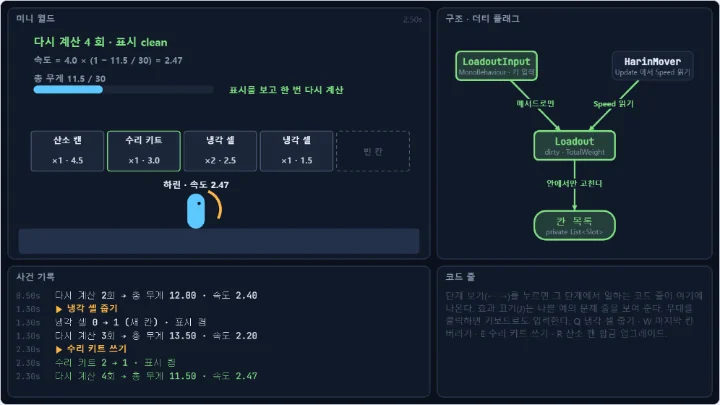
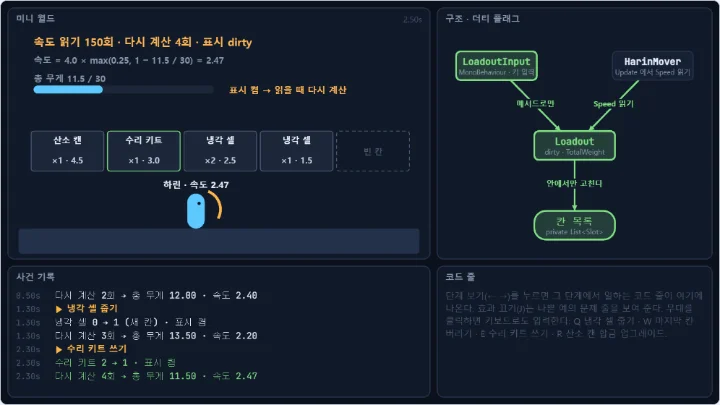
dispatch(dirty-flag-loadout-fix): 표본 수정: dirty-flag-loadout
Dispatch-Job: dirty-flag-loadout-fix
Dispatch-Profile: sub
Dispatch-Model: claude-opus-5-5

Changed region(s): [[0.0306, 0.0889, 0.3667, 0.1778], [0.3056, 0.2074, 0.4889, 0.237]]

diff --git a/src/specimens/dirty-flag-loadout/meta.ts b/src/specimens/dirty-flag-loadout/meta.ts
@@ -38,7 +38,7 @@ export const meta: PatternMeta = {
       id: 'kit-skips-flag',
       label: '셀을 줍고, 수리 키트를 두 번 쓰고, 마지막 칸을 버린다',
       duration: 6,
-      note: '자동 데모. 줍기 둘(1.30 에 새 칸)마다 다시 계산한다. 2.30 수리 키트 쓰기에서 효과 끄기는 표시를 켜지 않아 캐시 13.50 · 실제 11.50 로 어긋나고(✖ 옛 무게), 3.40 에 한 번 더 써도 캐시 그대로다. 4.60 버리기가 표시를 켜서 7.00 으로 돌아온다',
+      note: '자동 데모. 냉각 셀은 칸당 2개까지 묶이고 칸마다 모듈 0.5 가 붙어, 0.50 줍기는 기존 칸에 더해 +1.00, 1.30 줍기는 새 칸이라 +1.50 이다. 줍기마다 한 번 다시 계산한다. 2.30 수리 키트 쓰기에서 효과 끄기는 표시를 켜지 않아 캐시 13.50 · 실제 11.50 로 어긋나고(✖ 옛 무게), 3.40 에 한 번 더 써도 캐시 그대로다. 4.60 버리기가 표시를 켜서 7.00 으로 돌아온다',
       inputs: [
         [0.5, 'pickup'],
         [1.3, 'pickup'],
@@ -103,13 +103,13 @@ export const meta: PatternMeta = {
   },
   steps: [
     { n: 1, label: '장비를 바꾸는 길은 Loadout 의 메서드뿐이다', body: '칸 목록은 `Loadout` 안의 `private` 목록이다. 줍기, 버리기, 수리 키트 쓰기, 합금 모두 `Add`, `RemoveLast`, `UseOne`, `Upgrade` 를 부른다. 바깥은 `SlotInfo` 복사본만 읽을 수 있어 개수를 직접 고치지 못한다.', target: 'input,input-loadout,loadout' },
-    { n: 2, label: '바꾸는 메서드는 계산하지 않고 표시만 켠다', body: '메서드는 칸을 고친 뒤 `dirty = true` 한 줄만 한다. 한 프레임에 열 번 바꿔도 무게 계산은 아직 없다. 사건 기록의 "· 표시 켬" 이 그 순간이다.', target: 'loadout,loadout-slots,slots' },
-    { n: 3, label: '읽을 때 표시가 켜져 있으면 한 번 다시 계산하고 끈다', body: '`HarinMover` 가 `Speed` 를 읽으면 `TotalWeight` 가 표시를 보고 칸마다 개수 × 무게 + 모듈 무게를 더한 뒤 표시를 끈다. 왼쪽 위 "다시 계산 n 회" 가 하나 는다. 무게 글은 이때 오는 `Recalculated` 에서만 고친다.', target: 'mover,mover-loadout,loadout,slots' },
-    { n: 4, label: '바뀌지 않았으면 캐시를 그대로 쓴다', body: '하린은 매 프레임 속도를 읽지만 표시가 꺼져 있으면 캐시를 돌려줄 뿐이다. 자동 데모 6초 동안 360번 읽어도 다시 계산은 처음 한 번과 입력 수만큼이다 (매 프레임 계산하던 코드라면 360번). Unity 의 `Transform` 이 위치를 바꿀 때 내부 행렬을 바로 계산하지 않고 필요할 때 맞추는 것도 같은 생각으로 볼 수 있다.', target: 'mover-loadout,loadout' },
+    { n: 2, label: '바꾸는 메서드는 계산하지 않고 표시만 켠다', body: '메서드는 칸을 고친 뒤 `MarkDirty()` 로 `dirty = true` 한 줄만 한다. 한 프레임에 열 번 바꿔도 무게 계산은 아직 없다. 사건 기록의 "· 표시 켬" 이 그 순간이다. 무대는 바로 다음 프레임에 읽어 표시를 끄므로, 왼쪽 위 "표시 dirty" 와 오른쪽 "표시 켬 → 읽을 때 다시 계산" 을 0.4초 남겨 보인다.', target: 'loadout,loadout-slots,slots' },
+    { n: 3, label: '읽을 때 표시가 켜져 있으면 한 번 다시 계산하고 끈다', body: '`HarinMover` 가 `Speed` 를 읽으면 `TotalWeight` 가 표시를 보고 칸마다 개수 × 무게 + 모듈 무게를 더한 뒤 표시를 끈다. 왼쪽 위 "다시 계산 n회" 가 하나 는다. 무게 글은 이때 오는 `Recalculated` 에서만 고친다.', target: 'mover,mover-loadout,loadout,slots' },
+    { n: 4, label: '바뀌지 않았으면 캐시를 그대로 쓴다', body: '하린은 매 프레임 속도를 읽지만 표시가 꺼져 있으면 캐시를 돌려줄 뿐이다. 자동 데모 6초 동안 왼쪽 위 "속도 읽기" 는 360회까지 늘지만 "다시 계산" 은 처음 한 번과 입력 수만큼이다 (매 프레임 계산하던 코드라면 360번). 책의 예는 씬 그래프다: 부모가 움직이면 자식들의 월드 변환을 바로 다시 계산하지 않고 표시만 해 두었다가, 그릴 때 한 번 계산한다. Unity 물리도 같은 생각이다: Transform 을 바꿔도 물리에 바로 맞추지 않고 모아 두었다가, 다음 물리 단계 전이나 `Physics.SyncTransforms` 를 부를 때 한꺼번에 맞춘다.', target: 'mover-loadout,loadout' },
   ],
-  offNote: '캐시와 `isDirty` 는 있지만 칸 목록과 묶음 수가 `public` 이고, 수리 키트를 쓰는 바깥 코드가 `slot.count--` 만 하고 `isDirty = true` 를 빠뜨린 흔한 코드다. 수리 키트를 쓰면 칸의 개수는 줄었는데 캐시된 총 무게와 그 무게로 구한 속도가 그대로다(자동 데모 2.30 에 캐시 13.5 · 실제 11.5). 어느 순서로 눌러도 원인은 이 한 길이다. 수리 키트를 쓴 뒤 줍기, 버리기, 합금 업그레이드처럼 메서드를 거치는 길이 실제로 무언가를 바꿔 표시를 켜면(칸이 가득 찬 줍기나 이미 끝난 합금은 켜지 않는다) 그때 수리 키트 몫까지 맞게 다시 계산된다. 그래서 "가끔 맞고 가끔 틀린" 버그로 보여 재현이 오락가락한다. Unity 에서는 키트를 써도 무게 글과 하린의 걸음이 그대로이다가, 다음 줍기에 갑자기 가벼워진다.',
+  offNote: '캐시와 `isDirty` 는 있지만 칸 목록과 묶음 수가 `public` 이고, 수리 키트를 쓰는 바깥 코드가 `slot.count--` 만 하고 `isDirty = true` 를 빠뜨린 흔한 코드다. 수리 키트를 쓰면 칸의 개수는 줄었는데 캐시된 총 무게와 그 무게로 구한 속도가 그대로다(자동 데모 2.30 에 캐시 13.5 · 실제 11.5). 어느 순서로 눌러도 원인은 이 한 길이다. 수리 키트를 쓴 뒤 줍기, 버리기, 합금 업그레이드처럼 메서드를 거치는 길이 실제로 무언가를 바꿔 표시를 켜면(칸이 가득 찬 줍기나 이미 끝난 합금은 켜지 않는다) 그때 수리 키트 몫까지 맞게 다시 계산된다. 그래서 "가끔 맞고 가끔 틀린" 버그로 보여 재현이 오락가락한다. Unity 에서는 키트를 써도 무게 글과 하린의 걸음이 바뀌지 않고, 다음 줍기(또는 버리기, 합금)가 표시를 켤 때에야 키트 몫이 빠진다.',
   mistakes: [
-    { title: '수리 키트를 썼는데 짐이 그대로 무겁다', body: '바꾸는 길 하나에서 표시를 빠뜨렸다. 개수를 줄이는 코드가 `isDirty = true` 를 켜지 않으면 캐시가 옛 무게로 남는다. 다음에 다른 길이 표시를 켜면 그때 맞아져 원인을 찾기 어렵다. 바꾸는 코드를 `Loadout` 의 메서드 하나로 모으고, 그 메서드 안에서 표시를 켠다.' },
+    { title: '수리 키트를 썼는데 짐이 그대로 무겁다', body: '바꾸는 길 하나에서 표시를 빠뜨렸다. 개수를 줄이는 코드가 `isDirty = true` 를 켜지 않으면 캐시가 옛 무게로 남는다. 다음에 다른 길이 표시를 켜면 그때 맞아져 원인을 찾기 어렵다. 바꾸는 코드를 `Loadout` 의 메서드로 모으고, 각 메서드 안에서 표시를 켠다. 이 표본의 `Loadout` 도 메서드마다 `MarkDirty()` 를 부른다. 부르는 곳을 없앤 것이 아니라 표시를 켜는 곳을 한 클래스 안으로 좁힌 것이다.' },
     { title: '고쳐도 다른 스크립트에서 또 같은 버그가 생긴다', body: '칸 목록이나 개수 필드가 `public` 이라 누구든 직접 고칠 수 있다. 이 표본의 `Loadout` 은 목록을 `private` 으로 두고 바깥에는 `SlotInfo` 값 복사본만 내준다. 교안 01 의 캡슐화(`{ get; private set; }`)처럼 읽기는 열고 쓰기는 닫으면 표시를 건너뛰는 길이 아예 없다.' },
     { title: '표시는 켜지는데 화면 숫자가 안 바뀐다', body: '읽는 쪽이 `TotalWeight` 대신 캐시 필드(`cachedWeight`)를 바로 읽었다. 표시를 확인하고 다시 계산하는 곳은 `TotalWeight` 하나여야 한다. 캐시 필드는 `private` 으로 둔다. 이 표본의 무게 글은 `Recalculated` 이벤트에서 고치므로 아무도 무게를 읽지 않으면 글도 그대로다. `HarinMover` 를 빼면 확인할 수 있다.' },
     { title: '캐시를 만들었는데 다시 계산 횟수가 매 프레임 는다', body: '`Update` 에서 `isDirty = true` 를 켜거나, 무게를 바꾸지 않는 메서드(받지 않은 합금 등)에서도 표시를 켠다. 표시는 실제로 바뀌었을 때만 켠다. 이 표본의 `Upgrade` 는 바꿀 칸이 없으면 표시를 켜지 않고 `Ignored` 만 알린다.' },
@@ -120,14 +120,14 @@ export const meta: PatternMeta = {
       '`Core/` 와 `Unity/` 폴더를 `Assets/Patterns/dirty-flag-loadout/` 에 둔다. `Naive/` 는 비교용 나쁜 예라 넣지 않는다.',
       '하린을 만든다. Universal 3D 템플릿은 `GameObject > 3D Object > Capsule`, 2D 템플릿은 `GameObject > 2D Object > Sprites > Capsule` (2D Sprite 패키지, 2D 템플릿에 들어 있다). 이름을 Harin, Position 을 (0, 0, 0) 으로 둔다. 기본 카메라(2D 템플릿은 Orthographic Size 5, Universal 3D 는 (0, 1, −10) 원근)에 x −6 ~ 6 이 모두 보인다.',
       'Harin 에 `LoadoutInput` 을 붙인다. 붙이는 순간 `Reset` 이 시연 키(Q 냉각 셀 줍기, W 마지막 칸 버리기, E 수리 키트 쓰기, R 산소 캔 합금)를 넣는다.',
-      '같은 Harin 에 `HarinMover` 를 붙인다. `Reset` 이 같은 오브젝트의 `LoadoutInput` 을 `Loadout` 칸에 넣는다 (`LoadoutInput` 을 먼저 붙여야 한다). Left X −6, Right X 6 사이를 걷는다.',
+      '같은 Harin 에 `HarinMover` 를 붙인다. `Reset` 이 같은 오브젝트의 `LoadoutInput` 을 `Loadout Input` 칸에 넣는다. `[RequireComponent]` 라 `LoadoutInput` 이 없으면 함께 붙지만, 위 순서대로 먼저 붙여 두는 편이 확실하다 (칸이 비어 있으면 Harin 의 `LoadoutInput` 을 끌어 넣는다). Left X −6, Right X 6 사이를 걷는다.',
       'Play 하면 화면 왼쪽 위에 "다시 계산 1회 · 총 무게 11.0 / 30 · 속도 2.53" 과 칸 목록이 보인다. Q 로 셀을 줍고 E 로 수리 키트를 써 본다.',
     ],
     verify: 'E 로 수리 키트를 쓰는 순간 무게 글이 줄고 하린이 빨라지며, 키를 누르지 않는 동안은 "다시 계산 n회" 가 늘지 않는다.',
     pitfalls: [
       '무게 글은 `LoadoutInput` 의 `OnGUI` 로 그리는 확인용 화면이다 (IMGUI). 실제 게임은 UGUI·TextMeshPro 로 만들고, 같은 `Recalculated` 핸들러에서 글을 고친다.',
       '무게는 읽을 때 계산된다. `HarinMover` 를 빼면 아무도 `Speed` 를 읽지 않아 다시 계산도 무게 글 갱신도 일어나지 않는다. 화면에만 쓰는 값이면 `CountChanged` 핸들러에서 `TotalWeight` 를 한 번 읽어도 된다 (그러면 바뀔 때마다 계산한다).',
-      'Play 중 Inspector 에서 `kitWeight`, `cellWeight` 를 바꾸면 `OnValidate` 가 `SetUnitWeight` 로 들고 있는 칸에도 넣는다. 이 길도 표시를 켜므로 다시 계산 횟수가 하나 는다.',
+      'Play 중 Inspector 에서 `kitWeight`, `cellWeight` 를 바꾸면 `OnValidate` 가 `SetUnitWeight` 로 들고 있는 칸에도 넣는다. 그 이름의 칸을 들고 있어 값이 실제로 바뀔 때만 표시를 켜므로, 그때만 다시 계산 횟수가 하나 는다 (다 쓴 수리 키트의 무게를 바꾸면 늘지 않는다).',
       '`HarinMover` 는 `transform.position` 을 고쳐 걷는다 (물리가 없는 확인용). Rigidbody 를 붙이면 `FixedUpdate` 에서 `MovePosition` 으로 바꾼다.',
     ],
   },

diff --git a/src/specimens/dirty-flag-loadout/sim.ts b/src/specimens/dirty-flag-loadout/sim.ts
@@ -265,7 +265,7 @@ const NaiveRepairKit = {
     if (!slot) return
     slot.count--
     if (slot.count === 0) loadout.slots.splice(loadout.slots.indexOf(slot), 1)
-    // [!] 여기서 loadout.isDirty = true 를 켜지 않는다 (캐시된 옛 무게와 속도가 남는다)
+    // [!] 여기서 isDirty = true 를 켜지 않는다 (옛 무게가 남는다)
   },
 }
 
@@ -294,11 +294,15 @@ export const createSim: SimFactory = (values: ParamValues, isNaive: boolean): Pa
   let x = Left
   let dir = 1
   let clock = 0
-  const at = { input: -9, kit: -9, recalc: -9, bug: -9, changed: -9 }
+  const at = { input: -9, kit: -9, recalc: -9, bug: -9, changed: -9, marked: -9 }
   let changedName = ''
+  /** HarinMover 처럼 Tick 마다 속도를 읽은 횟수 (무대 글에만 쓴다. 기록 대조에는 넣지 않는다) */
+  let reads = 0
 
   // 패턴
   let loadout: Loadout | null = null
+  /** LoadoutInput 의 무게 글처럼 Recalculated 에서 받은 무게만 보인다 */
+  let shownWeight = 0
 
   // 나쁜 예
   let naive: NaiveLoadout | null = null
@@ -339,17 +343,20 @@ export const createSim: SimFactory = (values: ParamValues, isNaive: boolean): Pa
     l.CountChanged.add((name, before, after) => {
       events.push(`${countText(name, before, after)} · 표시 ${l.IsDirty ? '켬' : '안 켬'}`)
       at.changed = clock
+      if (l.IsDirty) at.marked = clock
       changedName = name
     })
     l.UnitWeightChanged.add((name, before, after) => {
       events.push(`${name} 합금: 한 개 ${F2(before)} → ${F2(after)} · 표시 ${l.IsDirty ? '켬' : '안 켬'}`)
       at.changed = clock
+      if (l.IsDirty) at.marked = clock
       changedName = name
     })
     l.Ignored.add(reason => events.push(`받지 않음: ${reason}`))
     l.Recalculated.add((weight, count) => {
       events.push(recalcText(count, weight, l.Speed))
       at.recalc = clock
+      shownWeight = weight
     })
     void l.TotalWeight
   }
@@ -359,6 +366,7 @@ export const createSim: SimFactory = (values: ParamValues, isNaive: boolean): Pa
   const diff = (before: Captured[]) => {
     const n = naive!
     const flag = ` · 표시 ${n.isDirty ? '켬' : '안 켬'}`
+    if (n.isDirty) at.marked = clock
     const after = n.slots
     const len = Math.min(before.length, after.length)
     let i = 0
@@ -446,6 +454,7 @@ export const createSim: SimFactory = (values: ParamValues, isNaive: boolean): Pa
     },
     tick(dt) {
       clock += dt
+      reads++
       let speed: number
       if (naive) {
         speed = readNaiveSpeed()
@@ -471,26 +480,37 @@ export const createSim: SimFactory = (values: ParamValues, isNaive: boolean): Pa
     view(): SimView {
       const list = slotsForView()
       const real = sumOf(list)
-      const dirty = loadout ? loadout.IsDirty : naive!.isDirty
-      // 표시가 켜져 있으면 다음 Tick 에서 다시 계산한다. 그동안은 옛 캐시를 그대로 보인다 (그림이 계산을 일으키지 않게)
-      const cached = loadout ? (dirty ? null : loadout.TotalWeight) : naive!.cachedWeight
+      // 무대는 입력 다음 Tick 에서 바로 속도를 읽어 표시를 끈다. 켜진 표시가 화면에 보이게 표시를 켠 입력 뒤 0.4초 동안 남겨 그린다
+      const marked = recent(at.marked, 0.4)
+      const dirty = (loadout ? loadout.IsDirty : naive!.isDirty) || marked
+      // 그림이 계산을 일으키지 않게 TotalWeight 를 읽지 않는다. 패턴은 마지막 Recalculated 의 무게(LoadoutInput 의 무게 글과 같다), 나쁜 예는 캐시 필드
+      const shown = loadout ? shownWeight : naive!.cachedWeight
       const recalcs = loadout ? loadout.RecalcCount : naive!.recalcCount
       const base = loadout ? loadout.BaseSpeed : naive!.baseSpeed
-      const shown = cached ?? real
-      const speed = f(base * Math.max(MinSpeedRatio, f(1 - f(shown / MaxWeight))))
-      const justRecalc = recent(at.recalc, 0.6)
+      const ratio = f(1 - f(shown / MaxWeight))
+      const speed = f(base * Math.max(MinSpeedRatio, ratio))
+      const floored = ratio < MinSpeedRatio
+      const justRecalc = recent(at.recalc, 0.8)
       const world: WorldItem[] = [
         { kind: 'box', x: 0, y: 0, w: 16, h: 1, fill: '#22314a' },
         {
           kind: 'text',
           x: 0.6,
           y: 8.3,
-          text: loadout ? `다시 계산 ${recalcs} 회 · 표시 ${dirty ? 'dirty' : 'clean'}` : `다시 계산 ${recalcs} 회 · isDirty ${dirty ? 'true' : 'false'}`,
+          text: `속도 읽기 ${reads}회 · 다시 계산 ${recalcs}회 · ${loadout ? `표시 ${dirty ? 'dirty' : 'clean'}` : `isDirty ${dirty ? 'true' : 'false'}`}`,
           align: 'left',
           size: 24,
-          color: justRecalc ? '#7ee081' : '#e6ecf5',
+          color: marked ? '#ffb454' : justRecalc ? '#7ee081' : '#e6ecf5',
         },
-        { kind: 'text', x: 0.6, y: 7.6, text: `속도 = ${F1(base)} × (1 − ${F1(shown)} / 30) = ${F2(speed)}`, align: 'left', size: 20, color: '#8796ae' },
+        {
+          kind: 'text',
+          x: 0.6,
+          y: 7.6,
+          text: `속도 = ${F1(base)} × max(0.25, 1 − ${F1(shown)} / 30) = ${F2(speed)}${floored ? ' (하한 0.25)' : ''}`,
+          align: 'left',
+          size: 20,
+          color: floored ? '#ffb454' : '#8796ae',
+        },
         { kind: 'bar', x: 0.6, y: 6.4, w: 7.2, value: shown / MaxWeight, fill: stale ? '#ff6b6b' : '#5cc8ff', label: `총 무게${naive ? ' (캐시)' : ''} ${F1(shown)} / 30` },
       ]
       if (naive) {
@@ -498,7 +518,8 @@ export const createSim: SimFactory = (values: ParamValues, isNaive: boolean): Pa
         if (stale) world.push({ kind: 'text', x: 8.4, y: 6.4, text: `✖ 캐시 ${F1(shown)} · 실제 ${F1(real)}`, align: 'left', size: 24, color: '#ff5d6c' })
         if (stale) world.push({ kind: 'text', x: 8.4, y: 5.6, text: '수리 키트가 표시를 안 켰다', align: 'left', size: 18, color: '#ff9f43' })
       } else {
-        world.push({ kind: 'text', x: 8.4, y: 6.4, text: justRecalc ? '표시를 보고 한 번 다시 계산' : '바뀌지 않아 캐시를 그대로', align: 'left', size: 20, color: justRecalc ? '#7ee081' : '#8796ae' })
+        const note = marked ? ['표시 켬 → 읽을 때 다시 계산', '#ffb454'] : justRecalc ? ['표시를 보고 한 번 다시 계산하고 껐다', '#7ee081'] : ['바뀌지 않아 캐시를 그대로', '#8796ae']
+        world.push({ kind: 'text', x: 8.4, y: 6.4, text: note[0], align: 'left', size: 20, color: note[1] })
       }
       for (let i = 0; i < MaxSlots; i++) {
         const bx = 0.5 + i * 3.05

diff --git a/unity/dirty-flag-loadout/Unity/HarinMover.cs b/unity/dirty-flag-loadout/Unity/HarinMover.cs
@@ -4,10 +4,11 @@ using UnityEngine;
 
 namespace PatternGallery.DirtyFlagLoadout
 {
+    [RequireComponent(typeof(LoadoutInput))]
     public class HarinMover : MonoBehaviour
     {
         [Tooltip("속도를 읽을 장비 칸. 같은 오브젝트에 붙이면 Reset 이 채운다")]
-        [SerializeField] LoadoutInput loadout;
+        [SerializeField] LoadoutInput loadoutInput;
         [Tooltip("걷는 구간 (월드 x). 화면 연출만, 무게 규칙과 상관없다")]
         [SerializeField] float leftX = -6f;
         [SerializeField] float rightX = 6f;
@@ -16,12 +17,12 @@ namespace PatternGallery.DirtyFlagLoadout
 
         void Reset()
         {
-            loadout = GetComponent<LoadoutInput>();
+            loadoutInput = GetComponent<LoadoutInput>();
         }
 
         void Update()
         {
-            float speed = loadout.Loadout.Speed; // [4] 매 프레임 읽는다. 바뀌지 않았으면 캐시를 그대로 쓴다
+            float speed = loadoutInput.Loadout.Speed; // [4] 매 프레임 읽는다. 바뀌지 않았으면 캐시를 그대로 쓴다
             Vector3 p = transform.position;
             p.x += dir * speed * Time.deltaTime;
             if (p.x >= rightX)

diff --git a/unity/dirty-flag-loadout/Naive/NaiveLoadout.cs b/unity/dirty-flag-loadout/Naive/NaiveLoadout.cs
@@ -86,7 +86,7 @@ namespace PatternGallery.DirtyFlagLoadout.Naive
             if (slot == null) return;
             slot.count--;
             if (slot.count == 0) loadout.slots.Remove(slot);
-            // [!] 여기서 loadout.isDirty = true 를 켜지 않는다 (캐시된 옛 무게와 속도가 남는다)
+            // [!] 여기서 isDirty = true 를 켜지 않는다 (옛 무게가 남는다)
         }
     }
 }
